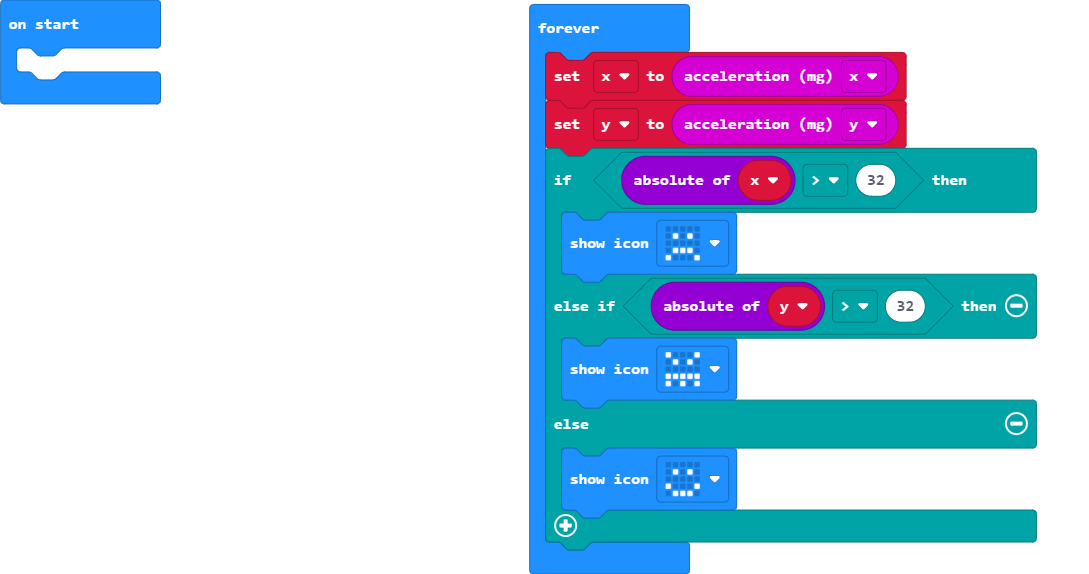
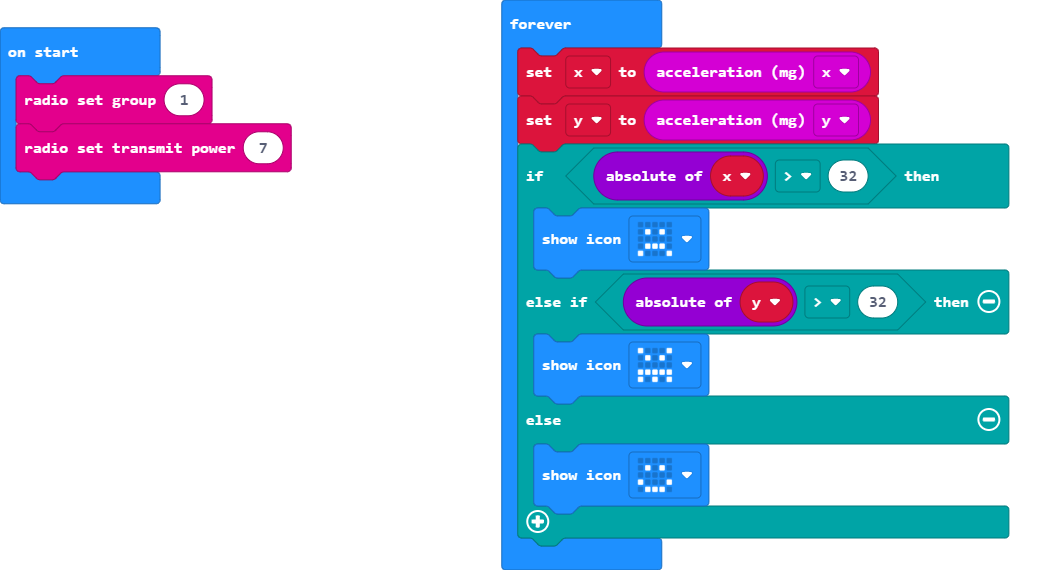
Started to Add radio support

Changed region(s): [[0.4665, 0.0, 0.9642, 1.0], [0.0, 0.0, 0.2799, 0.3579], [0.6221, 0.9246, 0.9642, 1.0]]

diff --git a/main.ts b/main.ts
@@ -1,5 +1,7 @@
-let x = 0
 let y = 0
+let x = 0
+radio.setGroup(1)
+radio.setTransmitPower(7)
 basic.forever(function () {
     x = input.acceleration(Dimension.X)
     y = input.acceleration(Dimension.Y)
